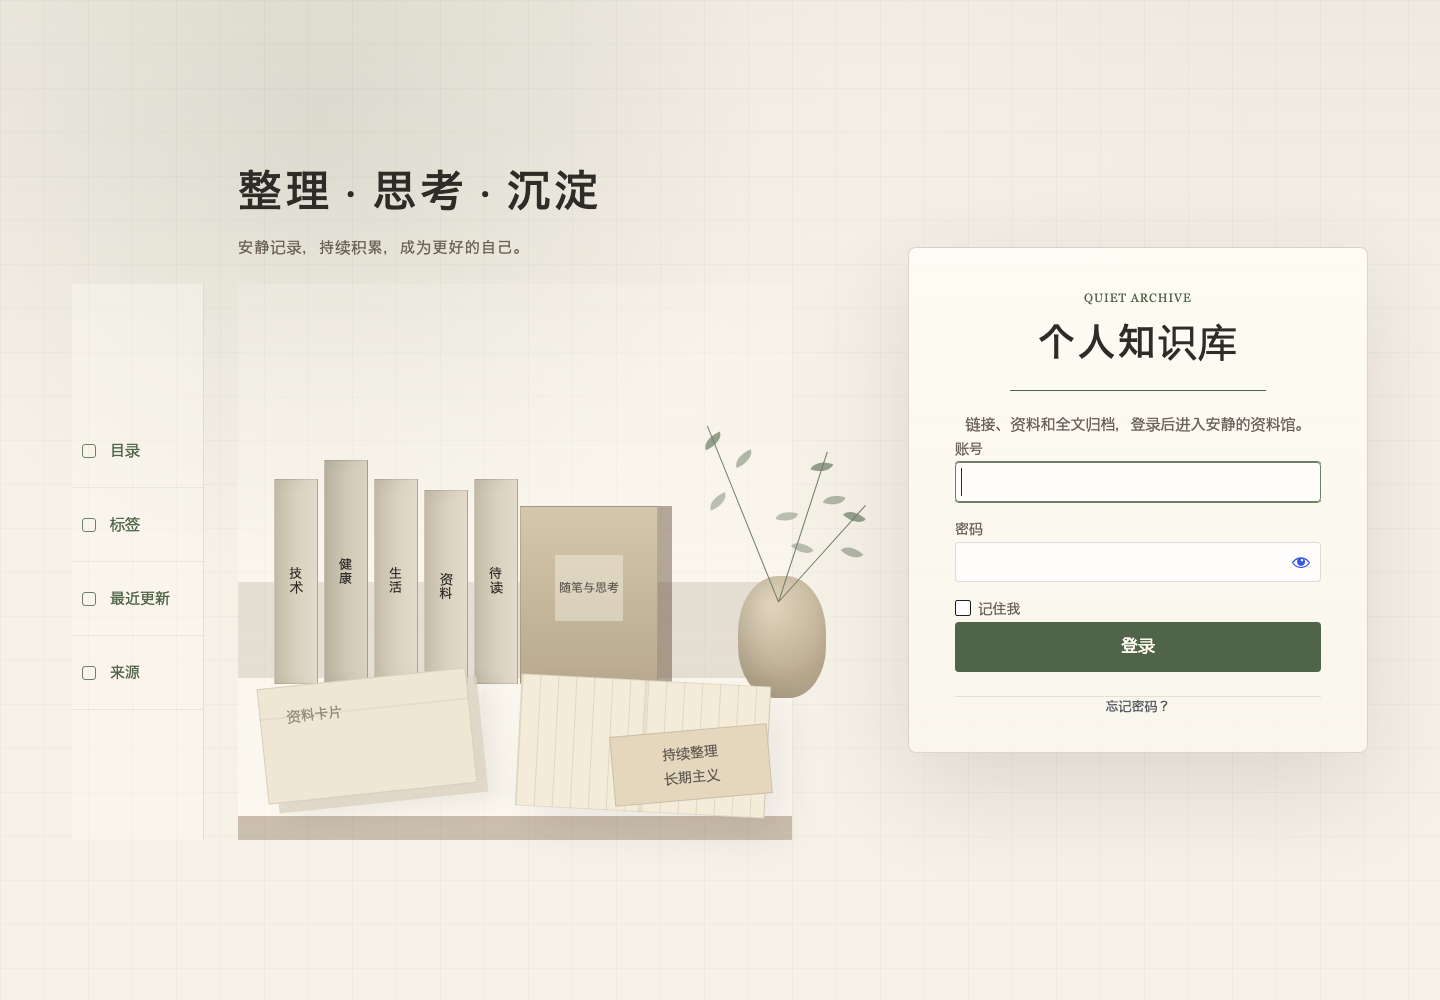
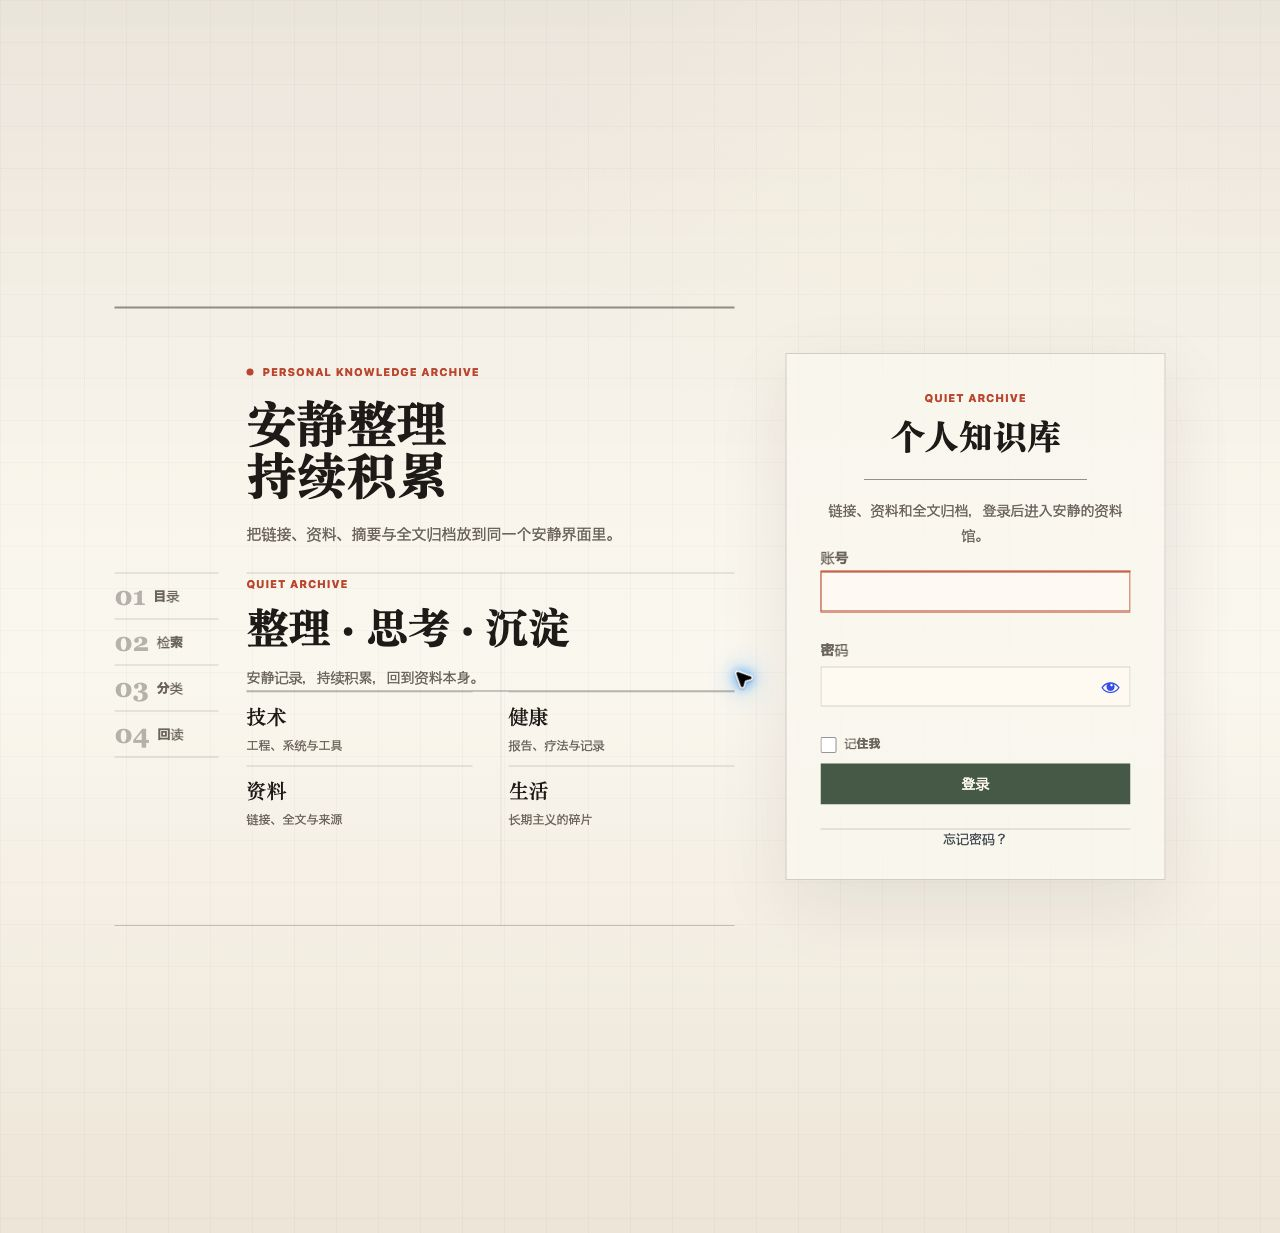
Refresh README screenshots

diff --git a/README.md b/README.md
@@ -37,9 +37,9 @@ http://localhost:8080/wp-login.php
 
 ## 效果预览
 
-![个人知识库首页](examples/media/personal-kb-home-final.png)
+![新版登录页](examples/media/personal-kb-login-final.png)
 
-![登录页](examples/media/personal-kb-login-final.png)
+![site-admin 管理界面](examples/media/personal-kb-site-admin-final.png)
 
 ## 适合 / 不适合
 